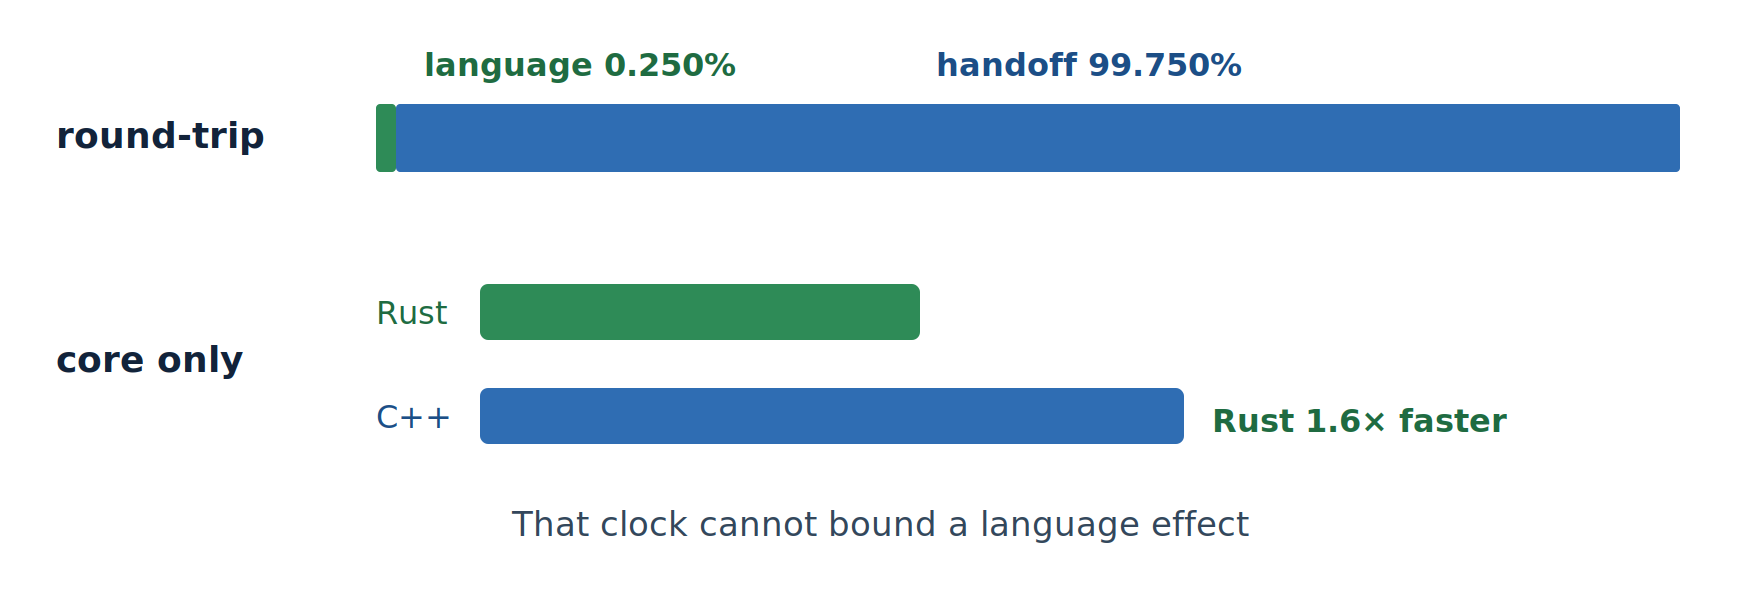
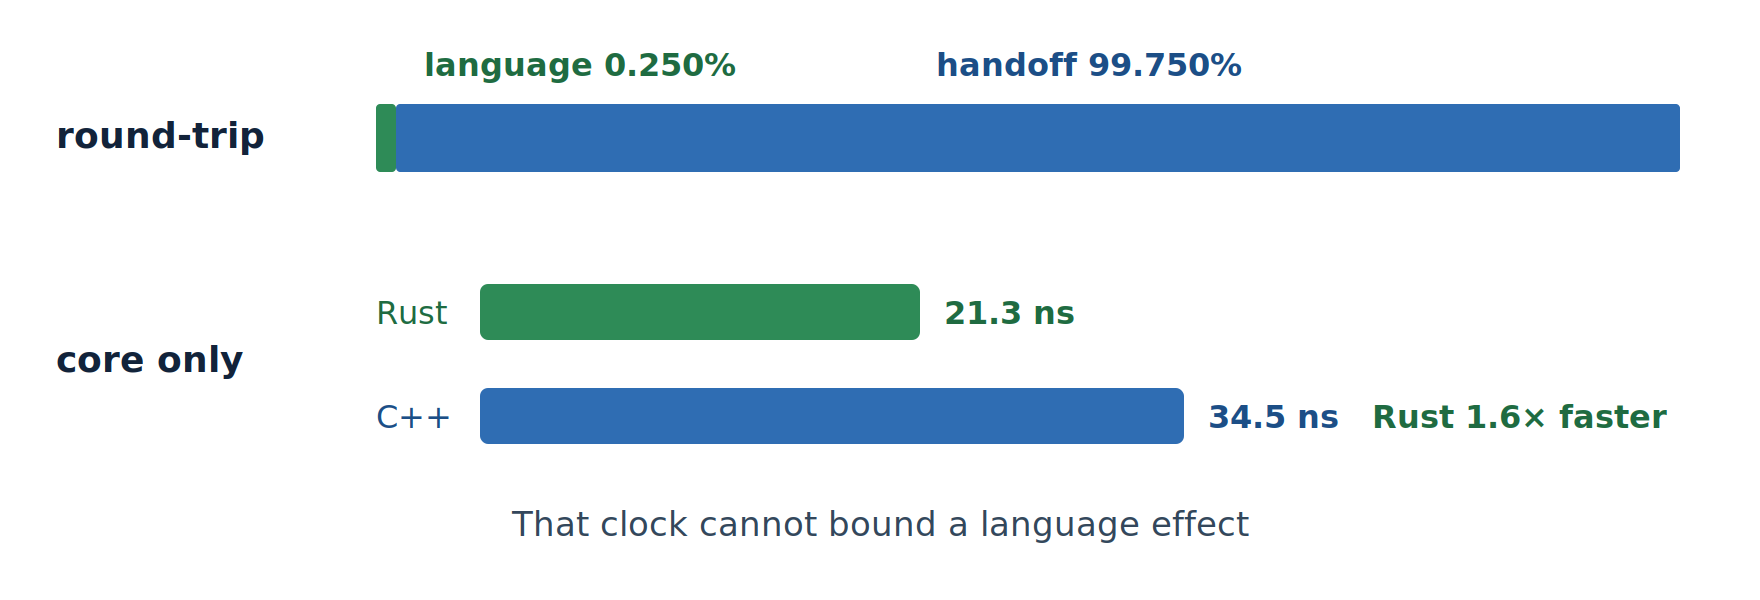
added nanosecond unit

Changed region(s): [[0.6875, 0.66, 0.9688, 0.72], [0.5312, 0.48, 0.625, 0.54]]

diff --git a/diagrams/build_new_diagrams.py b/diagrams/build_new_diagrams.py
@@ -50,7 +50,8 @@ def load_macros():
     missing = {"NRepeats", "NLoadLevels", "NRuns", "MaxOfferedLoad", "NTests",
                "MinAttainableP", "CorrectedFloor", "FfiOpBoundPct",
                "BudgetCoreShareMax", "BudgetCoreShareRest", "BudgetCoreRatio",
-               "BudgetCoreFaster", "FaultClassesPrevented",
+               "BudgetCoreFaster", "BudgetCoreCpp", "BudgetCoreRust",
+               "FaultClassesPrevented",
                "FaultClassesBoundary", "FfiEntryPoints", "FfiUnsafeFns",
                "FfiOpNative", "FfiOpSeam", "CoreUnsafe", "ReprLoad",
                "TrackingLoadCpp", "TrackingLoadRust", "OverloadLoad",
@@ -828,9 +829,13 @@ def e2e_clock():
     cpp_w = rust_w * ratio
     d.text(bar_x, 162, "Rust", 16, GREEN_DEEP)
     d.rect(bar_x + 52, 142, rust_w, 28, GREEN, rx=4)
+    d.text(bar_x + 52 + rust_w + 12, 162,
+           f"{M['BudgetCoreRust']} ns", 16, GREEN_DEEP, weight=700)
     d.text(bar_x, 214, "C++", 16, BLUE_DEEP)
     d.rect(bar_x + 52, 194, cpp_w, 28, BLUE, rx=4)
-    d.text(bar_x + 52 + cpp_w + 14, 216,
+    d.text(bar_x + 52 + cpp_w + 12, 214,
+           f"{M['BudgetCoreCpp']} ns", 16, BLUE_DEEP, weight=700)
+    d.text(bar_x + 52 + cpp_w + 94, 214,
            f"{faster} {M['BudgetCoreRatio']}\u00d7 faster", 16, GREEN_DEEP,
            weight=700)
     d.text(440, 268, "That clock cannot bound a language effect", 17, BODY,

diff --git a/Ha_Vien_Mastersthesis_2026.tex b/Ha_Vien_Mastersthesis_2026.tex
@@ -1693,7 +1693,9 @@ to store the records. Another is the machine code each compiler produces.
 \caption[Where the end-to-end clock goes]{Where the time of one round trip
 goes, from the separate timing of its parts on the virtual machine of
 Appendix~\ref{appendix:config}. The core operation, labelled language in the
-drawing, takes $\BudgetCoreShareMax\%$. A clock that spends the rest on the
+drawing, takes $\BudgetCoreShareMax\%$. The lower bars are that call timed
+alone, $\BudgetCoreRust$ nanoseconds in Rust and $\BudgetCoreCpp$ nanoseconds
+in C++. A clock that spends the rest on the
 handoff cannot bound a difference in the core operation. The campaign's own clock also
 holds the producer's late wake-up, which this split leaves out.\label{fig:e2eclock}}
 \end{figure}

diff --git a/Ha_Vien_Mastersthesis_2026_draft.tex b/Ha_Vien_Mastersthesis_2026_draft.tex
@@ -1786,7 +1786,9 @@ stock hash map and code generation are candidates.
 \caption[Where the end-to-end clock goes]{Where the time of one round trip
 goes, from the separate timing of its parts on the virtual machine of
 Appendix~\ref{appendix:config}. The core operation, labelled language in the
-drawing, takes $\BudgetCoreShareMax\%$. A clock that spends the rest on the
+drawing, takes $\BudgetCoreShareMax\%$. The lower bars are that call timed
+alone, $\BudgetCoreRust$ nanoseconds in Rust and $\BudgetCoreCpp$ nanoseconds
+in C++. A clock that spends the rest on the
 handoff cannot bound a difference in the core operation. The campaign's own clock also
 holds the producer's late wake-up, which this split leaves out.\label{fig:e2eclock}}
 \end{figure}
